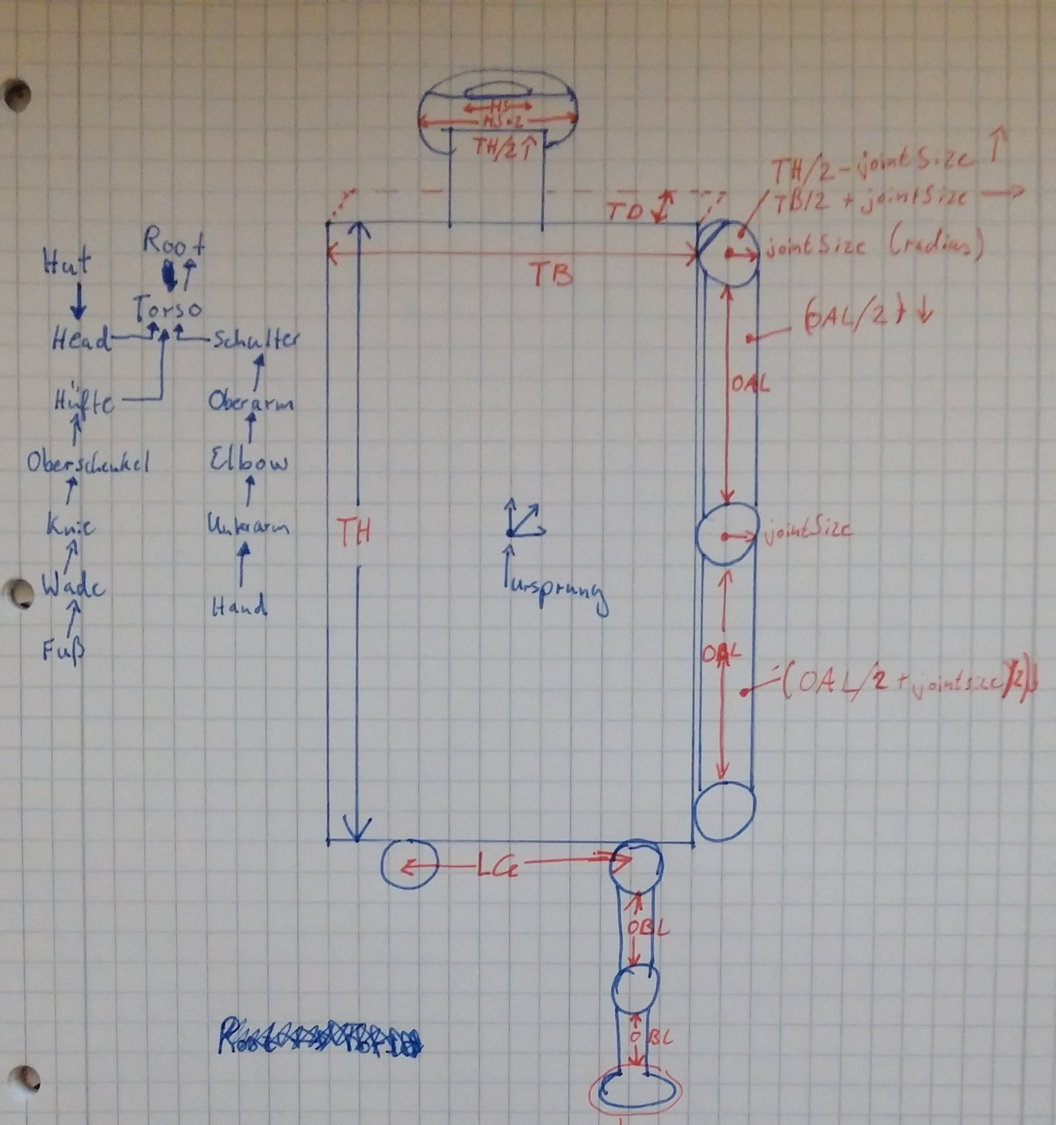
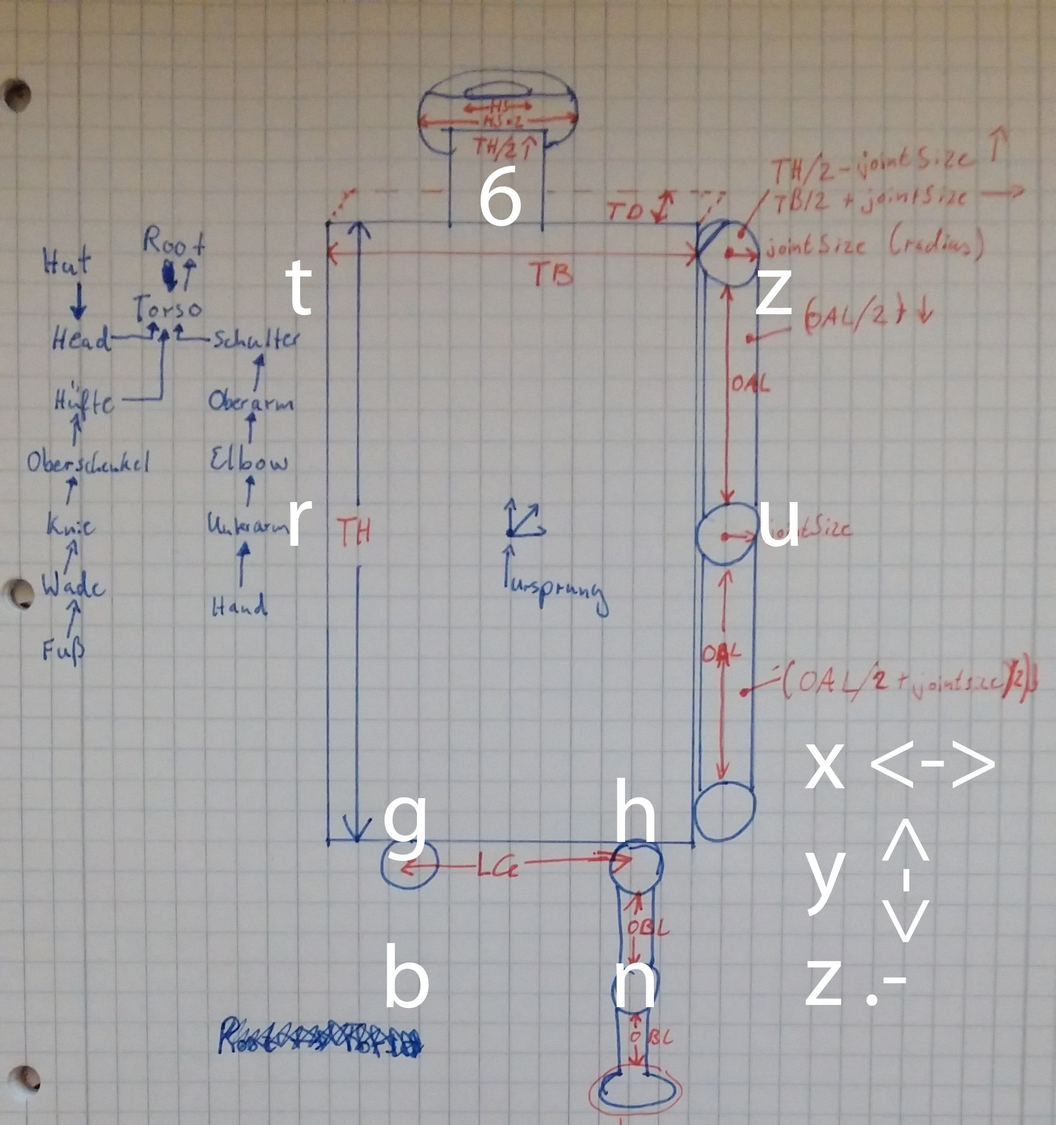
key map auf Plan hinzugefügt

diff --git a/cg2/cg-a02.1-surfaces/scene/scene.js b/cg2/cg-a02.1-surfaces/scene/scene.js
@@ -60,6 +60,62 @@ define(["three", "util", "shaders", "BufferGeometry", "random", "band"],
                     scope.currentMesh.rotation.y += -0.05;
                     // Cursor up
                 }
+                else if(keyCode == 190){
+                    console.log("point");
+                    scope.currentMesh.rotation.z += 0.05;
+                } else if(keyCode == 173){
+                    console.log("dash");
+                    scope.currentMesh.rotation.z += -0.05;
+                }
+
+                // select Robot-parts===================================================================================
+                // upper body..........................................................
+                else if (keyCode == 54 ){ // 6
+                    scope.currentMesh = scope.scene.getObjectByName("head", true);
+                    if(scope.currentMesh){console.log("select head");}
+                    else console.warn("selection went wrong!")
+                }
+                else if (keyCode == 84 ){ // t
+                    scope.currentMesh = scope.scene.getObjectByName("leftShoulder", true);
+                    if(scope.currentMesh){console.log("select leftShoulder");}
+                    else console.warn("selection went wrong!")
+                }
+                else if (keyCode == 90 ){ // z
+                    scope.currentMesh = scope.scene.getObjectByName("rightShoulder", true);
+                    if(scope.currentMesh){console.log("select rightShoulder");}
+                    else console.warn("selection went wrong!")
+                }
+                else if (keyCode == 82 ){ // r
+                    scope.currentMesh = scope.scene.getObjectByName("leftElbow", true);
+                    if(scope.currentMesh){console.log("select leftElbow");}
+                    else console.warn("selection went wrong!")
+                }
+                else if (keyCode == 85 ){ // u
+                    scope.currentMesh = scope.scene.getObjectByName("rightElbow", true);
+                    if(scope.currentMesh){console.log("select rightElbow");}
+                    else console.warn("selection went wrong!")
+                }
+                // lower body..........................................................
+                else if (keyCode == 71 ){ // g
+                    scope.currentMesh = scope.scene.getObjectByName("leftHip", true);
+                    if(scope.currentMesh){console.log("select leftHip");}
+                    else console.warn("selection went wrong!")
+                }
+                else if (keyCode == 72 ){ // h
+                    scope.currentMesh = scope.scene.getObjectByName("rightHip", true);
+                    if(scope.currentMesh){console.log("select rightHip");}
+                    else console.warn("selection went wrong!")
+                }
+                else if (keyCode == 66 ){ // b
+                    scope.currentMesh = scope.scene.getObjectByName("leftKnee", true);
+                    if(scope.currentMesh){console.log("select leftKnee");}
+                    else console.warn("selection went wrong!")
+                }
+                else if (keyCode == 78 ){ // n
+                    scope.currentMesh = scope.scene.getObjectByName("rightKnee", true);
+                    if(scope.currentMesh){console.log("select rightKnee");}
+                    else console.warn("selection went wrong!")
+                }
             };
 
             this.addBufferGeometry = function(bufferGeometry) {

diff --git a/cg2/cg-a02.1-surfaces/controller/html_controller.js b/cg2/cg-a02.1-surfaces/controller/html_controller.js
@@ -25,23 +25,27 @@ define(["jquery", "BufferGeometry", "random", "band", "parametric", "robot"],
             $("#random").show();
             $("#band").hide();
             $("#parametric").hide();
+            $("#robot").hide();
 
             $("#btnRandom").click( (function() {
                 $("#random").show();
                 $("#band").hide();
                 $("#parametric").hide();
+                $("#robot").hide();
             }));
 
             $("#btnBand").click( (function() {
                 $("#random").hide();
                 $("#band").show();
                 $("#parametric").hide();
+                $("#robot").hide();
             }));
 
             $("#btnParametric").click( (function() {
                 $("#parametric").show();
                 $("#random").hide();
                 $("#band").hide();
+                $("#robot").hide();
             }));
 
             $('#rotate').click((function () {
@@ -208,7 +212,7 @@ define(["jquery", "BufferGeometry", "random", "band", "parametric", "robot"],
             }));
 
             $("#btnRobot").click( (function() {
-
+                $("#robot").show();
                 var robot = new Robot();
                 var bufferGeometryRobot = new BufferGeometry();
 

diff --git a/cg2/cg-a02.1-surfaces/index.html b/cg2/cg-a02.1-surfaces/index.html
@@ -104,6 +104,10 @@
             </tr>
         </table>
 
+        <img id="robot" src="../Plan.jpg" style="width: 200%">
+
+        </img>
+
     </div>
 
 
